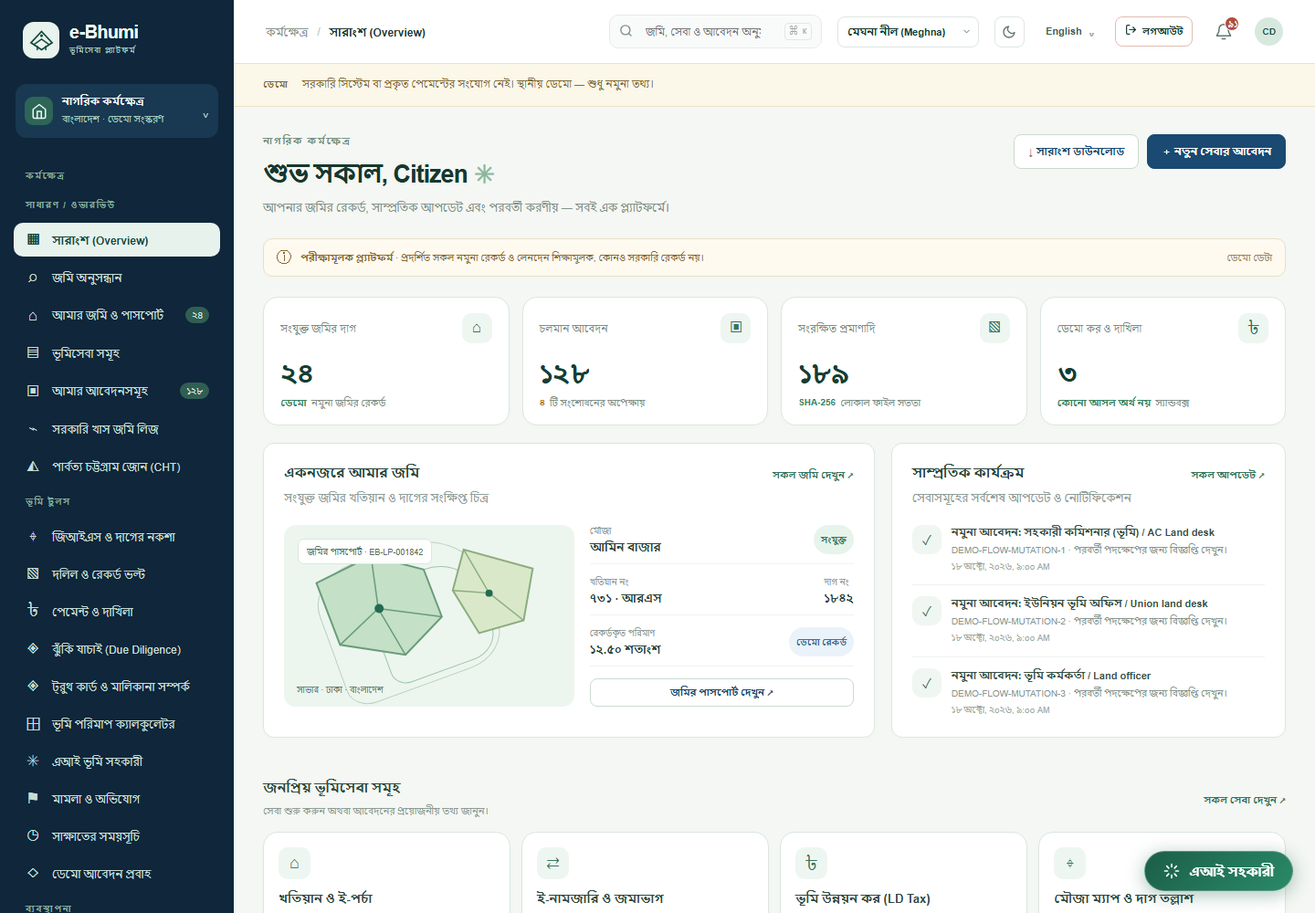
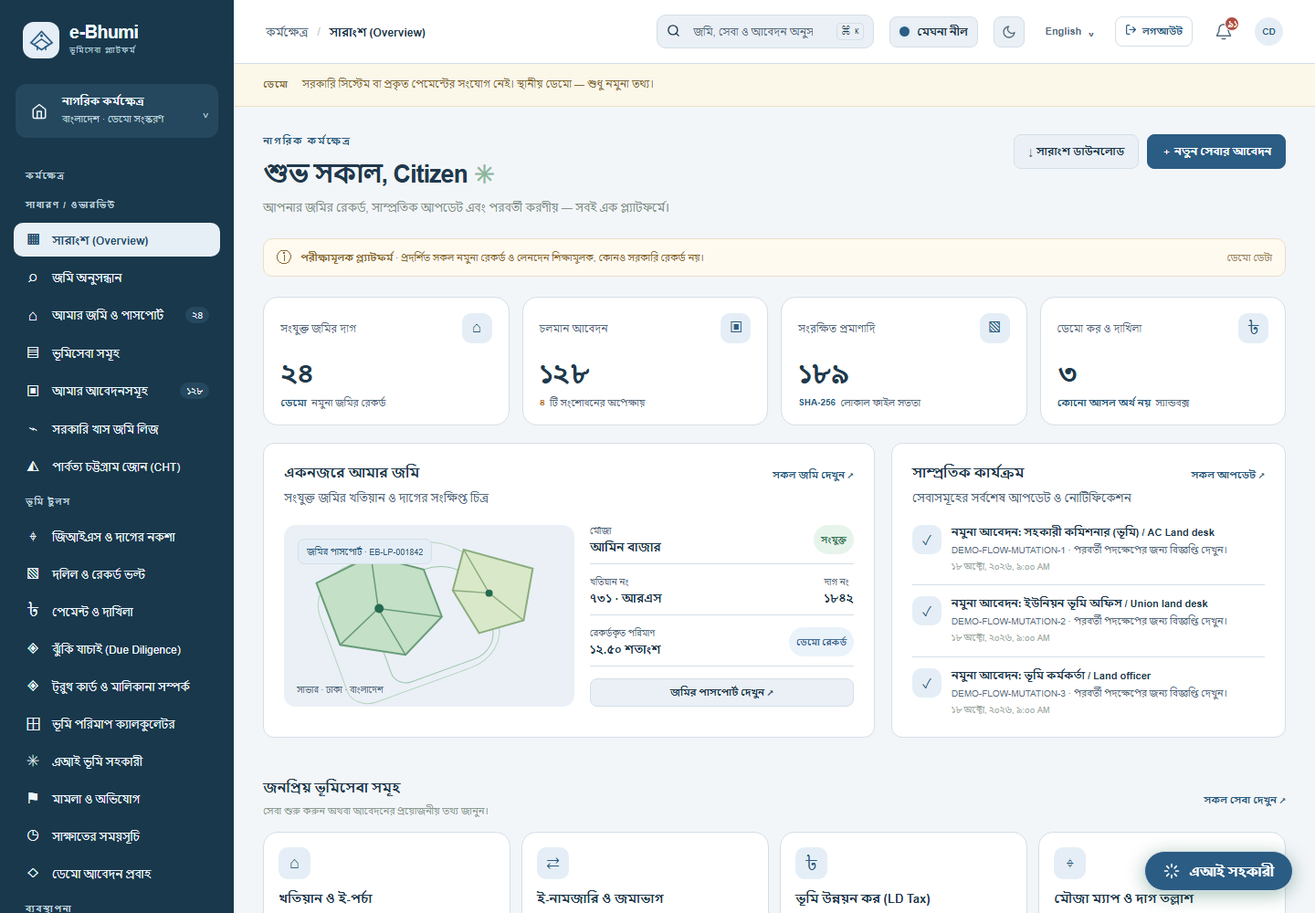
Add visual appearance collection with coordinated alternate day and night palettes

diff --git a/ebhumi-platform/themes.css b/ebhumi-platform/themes.css
@@ -1,4 +1,289 @@
-/* Demo workflow layout only. Original colours remain in interface.css and the preserved stylesheets. */
+/* Coordinated alternate palettes. The original Padma green/white and its night mode are untouched. */
+:root[data-color-variant="meghna"]{
+  --theme-canvas:#f3f6f9;
+  --theme-surface:#ffffff;
+  --theme-soft:#eaf0f6;
+  --theme-ink:#20394d;
+  --theme-muted:#556c7e;
+  --theme-line:#d4dfe8;
+  --theme-accent:#2b5c83;
+  --theme-hover:#214b6d;
+  --theme-tint:#e5eef6;
+  --theme-side:#19384c;
+  --theme-sideSoft:#25485e;
+  --theme-sideInk:#eef5fa;
+  --theme-sideMuted:#bdcedb;
+  --theme-active:#e7eff6;
+  --theme-activeInk:#234e70;
+  --theme-primary:#2b5c83;--theme-primary-hover:#214b6d;
+}
+:root[data-color-variant="meghna"][data-theme="dark"]{
+  --theme-canvas:#101923;
+  --theme-surface:#182632;
+  --theme-soft:#20323f;
+  --theme-ink:#e5eef5;
+  --theme-muted:#b3c2ce;
+  --theme-line:#364c5d;
+  --theme-accent:#a4c9ed;
+  --theme-hover:#c0ddf7;
+  --theme-tint:#263e53;
+  --theme-side:#101f2d;
+  --theme-sideSoft:#20374a;
+  --theme-sideInk:#e5eef5;
+  --theme-sideMuted:#b3c2ce;
+  --theme-active:#2a465d;
+  --theme-activeInk:#dceeff;
+  --theme-primary:#335f88;
+  --theme-primaryHover:#3d709d;
+  --theme-primary:#335f88;--theme-primary-hover:#3d709d;
+}
+:root[data-color-variant="sundarban"]{
+  --theme-canvas:#f8f6f2;
+  --theme-surface:#fffefd;
+  --theme-soft:#f1ebe3;
+  --theme-ink:#493d32;
+  --theme-muted:#756251;
+  --theme-line:#e2d8ca;
+  --theme-accent:#815737;
+  --theme-hover:#654229;
+  --theme-tint:#f2e8db;
+  --theme-side:#49392b;
+  --theme-sideSoft:#5b4837;
+  --theme-sideInk:#fcf5eb;
+  --theme-sideMuted:#dfceba;
+  --theme-active:#f3e8d9;
+  --theme-activeInk:#604027;
+  --theme-primary:#815737;--theme-primary-hover:#654229;
+}
+:root[data-color-variant="sundarban"][data-theme="dark"]{
+  --theme-canvas:#211b17;
+  --theme-surface:#2d251f;
+  --theme-soft:#382f27;
+  --theme-ink:#f3e9de;
+  --theme-muted:#d0bca9;
+  --theme-line:#584a3b;
+  --theme-accent:#e7b48b;
+  --theme-hover:#f2cfaf;
+  --theme-tint:#48372b;
+  --theme-side:#251e18;
+  --theme-sideSoft:#3d3026;
+  --theme-sideInk:#f3e9de;
+  --theme-sideMuted:#d0bca9;
+  --theme-active:#4b392b;
+  --theme-activeInk:#f8dfc7;
+  --theme-primary:#865337;
+  --theme-primaryHover:#996344;
+  --theme-primary:#865337;--theme-primary-hover:#996344;
+}
+:root[data-color-variant="surma"]{
+  --theme-canvas:#f4f6f8;
+  --theme-surface:#ffffff;
+  --theme-soft:#eaf0f5;
+  --theme-ink:#2c3d51;
+  --theme-muted:#5b6c80;
+  --theme-line:#d4dde6;
+  --theme-accent:#4a607e;
+  --theme-hover:#354b68;
+  --theme-tint:#e8edf4;
+  --theme-side:#2b394b;
+  --theme-sideSoft:#3b4c62;
+  --theme-sideInk:#f0f4fa;
+  --theme-sideMuted:#c4cfdf;
+  --theme-active:#e8edf5;
+  --theme-activeInk:#354c69;
+  --theme-primary:#4a607e;--theme-primary-hover:#354b68;
+}
+:root[data-color-variant="surma"][data-theme="dark"]{
+  --theme-canvas:#171d26;
+  --theme-surface:#222b37;
+  --theme-soft:#2c3746;
+  --theme-ink:#e7edf5;
+  --theme-muted:#bdc8d7;
+  --theme-line:#445267;
+  --theme-accent:#b6cbe8;
+  --theme-hover:#d5e4f7;
+  --theme-tint:#334258;
+  --theme-side:#1b2431;
+  --theme-sideSoft:#2c394c;
+  --theme-sideInk:#e7edf5;
+  --theme-sideMuted:#bdc8d7;
+  --theme-active:#35465e;
+  --theme-activeInk:#e4edff;
+  --theme-primary:#4a607f;
+  --theme-primaryHover:#586f91;
+  --theme-primary:#4a607f;--theme-primary-hover:#586f91;
+}
+:root[data-color-variant]:not([data-color-variant="padma"]){--canvas:var(--theme-canvas);--paper:var(--theme-surface);--white:var(--theme-surface);--ink:var(--theme-ink);--muted:var(--theme-muted);--line:var(--theme-line);--green:var(--theme-accent);--green-2:var(--theme-hover);--mint:var(--theme-tint);--color-brand-primary:var(--theme-primary);--color-brand-hover:var(--theme-primary-hover);--color-brand-subtle:var(--theme-tint);--color-brand-border:var(--theme-line);background:var(--theme-canvas);color:var(--theme-ink)}
+:root[data-color-variant]:not([data-color-variant="padma"]) body,
+:root[data-color-variant]:not([data-color-variant="padma"]) .main,
+:root[data-color-variant]:not([data-color-variant="padma"]) .main-area{background:var(--theme-canvas);color:var(--theme-ink)}
+:root[data-color-variant]:not([data-color-variant="padma"]) .sidebar{background:var(--theme-side)!important;color:var(--theme-sideInk);border-color:var(--theme-line)}
+:root[data-color-variant]:not([data-color-variant="padma"]) .sidebar .workspace-switch,
+:root[data-color-variant]:not([data-color-variant="padma"]) .role-panel{background:var(--theme-sideSoft)!important;border-color:var(--theme-sideSoft);color:var(--theme-sideInk)}
+:root[data-color-variant]:not([data-color-variant="padma"]) .sidebar .help-card,
+:root[data-color-variant]:not([data-color-variant="padma"]) .sidebar .workspace-icon,
+:root[data-color-variant]:not([data-color-variant="padma"]) .sidebar .profile-mini .avatar{background:var(--theme-sideSoft);border-color:var(--theme-sideMuted);color:var(--theme-sideInk)}
+:root[data-color-variant]:not([data-color-variant="padma"]) .sidebar .brand,
+:root[data-color-variant]:not([data-color-variant="padma"]) .sidebar .brand strong,
+:root[data-color-variant]:not([data-color-variant="padma"]) .sidebar .profile-text b,
+:root[data-color-variant]:not([data-color-variant="padma"]) .sidebar .nav-item,
+:root[data-color-variant]:not([data-color-variant="padma"]) .sidebar .help-card b{color:var(--theme-sideInk)}
+:root[data-color-variant]:not([data-color-variant="padma"]) .sidebar small,
+:root[data-color-variant]:not([data-color-variant="padma"]) .sidebar .side-label,
+:root[data-color-variant]:not([data-color-variant="padma"]) .sidebar .text-button,
+:root[data-color-variant]:not([data-color-variant="padma"]) .sidebar .chevron,
+:root[data-color-variant]:not([data-color-variant="padma"]) .sidebar .profile-mini .icon-button{color:var(--theme-sideMuted)}
+:root[data-color-variant]:not([data-color-variant="padma"]) .sidebar .nav-item:hover{background:var(--theme-sideSoft);color:var(--theme-sideInk)}
+:root[data-color-variant]:not([data-color-variant="padma"]) .sidebar .nav-item.active{background:var(--theme-active);color:var(--theme-activeInk)}
+:root[data-color-variant]:not([data-color-variant="padma"]) .sidebar .nav-count{background:var(--theme-sideSoft);color:var(--theme-sideInk)}
+:root[data-color-variant]:not([data-color-variant="padma"]) .sidebar .nav-item.active .nav-count{background:var(--theme-active);color:var(--theme-activeInk)}
+:root[data-color-variant]:not([data-color-variant="padma"]) .sidebar .sidebar-bottom,
+:root[data-color-variant]:not([data-color-variant="padma"]) .sidebar .profile-mini{border-color:var(--theme-sideSoft)}
+:root[data-color-variant]:not([data-color-variant="padma"]) .topbar,
+:root[data-color-variant]:not([data-color-variant="padma"]) .panel,
+:root[data-color-variant]:not([data-color-variant="padma"]) .card,
+:root[data-color-variant]:not([data-color-variant="padma"]) .stat-card,
+:root[data-color-variant]:not([data-color-variant="padma"]) .feature-card,
+:root[data-color-variant]:not([data-color-variant="padma"]) .service-card,
+:root[data-color-variant]:not([data-color-variant="padma"]) .catalog-stat,
+:root[data-color-variant]:not([data-color-variant="padma"]) .mini-metric,
+:root[data-color-variant]:not([data-color-variant="padma"]) .catalog-item,
+:root[data-color-variant]:not([data-color-variant="padma"]) dialog,
+:root[data-color-variant]:not([data-color-variant="padma"]) .ai-floating-card{background:var(--theme-surface);color:var(--theme-ink);border-color:var(--theme-line)}
+:root[data-color-variant]:not([data-color-variant="padma"]) h1,
+:root[data-color-variant]:not([data-color-variant="padma"]) h2,
+:root[data-color-variant]:not([data-color-variant="padma"]) h3,
+:root[data-color-variant]:not([data-color-variant="padma"]) strong,
+:root[data-color-variant]:not([data-color-variant="padma"]) .panel-title,
+:root[data-color-variant]:not([data-color-variant="padma"]) .stat-value,
+:root[data-color-variant]:not([data-color-variant="padma"]) .detail-value,
+:root[data-color-variant]:not([data-color-variant="padma"]) .activity-copy b,
+:root[data-color-variant]:not([data-color-variant="padma"]) .service-card b,
+:root[data-color-variant]:not([data-color-variant="padma"]) .breadcrumb b{color:var(--theme-ink)}
+:root[data-color-variant]:not([data-color-variant="padma"]) .muted,
+:root[data-color-variant]:not([data-color-variant="padma"]) .help,
+:root[data-color-variant]:not([data-color-variant="padma"]) .panel-subtitle,
+:root[data-color-variant]:not([data-color-variant="padma"]) .stat-label,
+:root[data-color-variant]:not([data-color-variant="padma"]) .stat-foot,
+:root[data-color-variant]:not([data-color-variant="padma"]) .metric span,
+:root[data-color-variant]:not([data-color-variant="padma"]) .card p,
+:root[data-color-variant]:not([data-color-variant="padma"]) .panel p,
+:root[data-color-variant]:not([data-color-variant="padma"]) .service-card small,
+:root[data-color-variant]:not([data-color-variant="padma"]) .detail-label,
+:root[data-color-variant]:not([data-color-variant="padma"]) .activity-copy p,
+:root[data-color-variant]:not([data-color-variant="padma"]) .land-art-bottom,
+:root[data-color-variant]:not([data-color-variant="padma"]) .breadcrumb{color:var(--theme-muted)}
+:root[data-color-variant]:not([data-color-variant="padma"]) .btn{background:var(--theme-soft);color:var(--theme-ink);border-color:var(--theme-line)}
+:root[data-color-variant]:not([data-color-variant="padma"]) .btn:hover{background:var(--theme-tint);color:var(--theme-ink)}
+:root[data-color-variant]:not([data-color-variant="padma"]) .btn.primary,
+:root[data-color-variant]:not([data-color-variant="padma"]) .progress-steps button.active{background:var(--theme-primary)!important;border-color:var(--theme-primary)!important;color:#fff}
+:root[data-color-variant]:not([data-color-variant="padma"]) .btn.primary:hover{background:var(--theme-primary-hover)!important}
+:root[data-color-variant]:not([data-color-variant="padma"]) .btn.ghost{background:transparent;color:var(--theme-accent)}
+:root[data-color-variant]:not([data-color-variant="padma"]) input,
+:root[data-color-variant]:not([data-color-variant="padma"]) select,
+:root[data-color-variant]:not([data-color-variant="padma"]) textarea,
+:root[data-color-variant]:not([data-color-variant="padma"]) .global-search,
+:root[data-color-variant]:not([data-color-variant="padma"]) .global-search input,
+:root[data-color-variant]:not([data-color-variant="padma"]) .global-search kbd,
+:root[data-color-variant]:not([data-color-variant="padma"]) .theme-toggle,
+:root[data-color-variant]:not([data-color-variant="padma"]) .color-variant-select,
+:root[data-color-variant]:not([data-color-variant="padma"]) .appearance-trigger{background-color:var(--theme-soft);color:var(--theme-ink);border-color:var(--theme-line)}
+:root[data-color-variant]:not([data-color-variant="padma"]) input::placeholder,
+:root[data-color-variant]:not([data-color-variant="padma"]) textarea::placeholder{color:var(--theme-muted);opacity:1}
+:root[data-color-variant]:not([data-color-variant="padma"]) .icon-button,
+:root[data-color-variant]:not([data-color-variant="padma"]) .language-toggle,
+:root[data-color-variant]:not([data-color-variant="padma"]) .language-toggle span{color:var(--theme-muted)}
+:root[data-color-variant]:not([data-color-variant="padma"]) .icon-button:hover,
+:root[data-color-variant]:not([data-color-variant="padma"]) .theme-toggle:hover{background:var(--theme-tint);color:var(--theme-accent)}
+:root[data-color-variant]:not([data-color-variant="padma"]) .stat-icon,
+:root[data-color-variant]:not([data-color-variant="padma"]) .service-icon,
+:root[data-color-variant]:not([data-color-variant="padma"]) .activity-icon,
+:root[data-color-variant]:not([data-color-variant="padma"]) .land-art-label,
+:root[data-color-variant]:not([data-color-variant="padma"]) .top-avatar,
+:root[data-color-variant]:not([data-color-variant="padma"]) .brand-mark{background:var(--theme-tint);color:var(--theme-accent);border-color:var(--theme-line)}
+:root[data-color-variant]:not([data-color-variant="padma"]) .positive,
+:root[data-color-variant]:not([data-color-variant="padma"]) .inline-link,
+:root[data-color-variant]:not([data-color-variant="padma"]) .source-link,
+:root[data-color-variant]:not([data-color-variant="padma"]) .table-primary,
+:root[data-color-variant]:not([data-color-variant="padma"]) .eyebrow,
+:root[data-color-variant]:not([data-color-variant="padma"]) .demo-example-links a,
+:root[data-color-variant]:not([data-color-variant="padma"]) .main .text-button{color:var(--theme-accent)!important}
+:root[data-color-variant]:not([data-color-variant="padma"]) .table-wrap,
+:root[data-color-variant]:not([data-color-variant="padma"]) table,
+:root[data-color-variant]:not([data-color-variant="padma"]) .data-table{background:var(--theme-surface);color:var(--theme-ink);border-color:var(--theme-line)}
+:root[data-color-variant]:not([data-color-variant="padma"]) td,
+:root[data-color-variant]:not([data-color-variant="padma"]) .data-table td{color:var(--theme-ink);border-color:var(--theme-line)}
+:root[data-color-variant]:not([data-color-variant="padma"]) th,
+:root[data-color-variant]:not([data-color-variant="padma"]) .data-table th,
+:root[data-color-variant]:not([data-color-variant="padma"]) pre,
+:root[data-color-variant]:not([data-color-variant="padma"]) .result,
+:root[data-color-variant]:not([data-color-variant="padma"]) .evidence,
+:root[data-color-variant]:not([data-color-variant="padma"]) .outcome,
+:root[data-color-variant]:not([data-color-variant="padma"]) .progress-steps button,
+:root[data-color-variant]:not([data-color-variant="padma"]) .land-art,
+:root[data-color-variant]:not([data-color-variant="padma"]) .app-footer,
+:root[data-color-variant]:not([data-color-variant="padma"]) .chat-bubble{background:var(--theme-soft);color:var(--theme-ink);border-color:var(--theme-line)}
+:root[data-color-variant]:not([data-color-variant="padma"]) .progress-steps button.done,
+:root[data-color-variant]:not([data-color-variant="padma"]) .badge:not(.red):not(.amber):not(.blue),
+:root[data-color-variant]:not([data-color-variant="padma"]) .pill.gray{background:var(--theme-tint);color:var(--theme-accent);border-color:var(--theme-line)}
+:root[data-color-variant]:not([data-color-variant="padma"]) .progress,
+:root[data-color-variant]:not([data-color-variant="padma"]) .bar{background:var(--theme-soft)}
+:root[data-color-variant]:not([data-color-variant="padma"]) .progress span,
+:root[data-color-variant]:not([data-color-variant="padma"]) .bar>span,
+:root[data-color-variant]:not([data-color-variant="padma"]) .timeline article:before{background:var(--theme-primary)}
+:root[data-color-variant]:not([data-color-variant="padma"]) .timeline,
+:root[data-color-variant]:not([data-color-variant="padma"]) .tabs,
+:root[data-color-variant]:not([data-color-variant="padma"]) .detail-row,
+:root[data-color-variant]:not([data-color-variant="padma"]) .activity-item,
+:root[data-color-variant]:not([data-color-variant="padma"]) details{border-color:var(--theme-line)}
+:root[data-color-variant]:not([data-color-variant="padma"]) .tabs button{color:var(--theme-muted)}
+:root[data-color-variant]:not([data-color-variant="padma"]) .tabs button.active{color:var(--theme-accent);border-color:var(--theme-accent)}
+:root[data-color-variant]:not([data-color-variant="padma"]) .chat-bubble.user,
+:root[data-color-variant]:not([data-color-variant="padma"]) .ai-bubble-user,
+:root[data-color-variant]:not([data-color-variant="padma"]) .ai-floating-btn,
+:root[data-color-variant]:not([data-color-variant="padma"]) .ai-card-head,
+:root[data-color-variant]:not([data-color-variant="padma"]) .toast{background:var(--theme-primary);color:#fff;border-color:var(--theme-line)}
+:root[data-color-variant]:not([data-color-variant="padma"]) .ai-floating-btn:hover{background:var(--theme-primary-hover);color:#fff}
+:root[data-color-variant]:not([data-color-variant="padma"]) .ai-card-body,
+:root[data-color-variant]:not([data-color-variant="padma"]) .ai-card-input,
+:root[data-color-variant]:not([data-color-variant="padma"]) .ai-card-foot{background:var(--theme-soft);color:var(--theme-ink);border-color:var(--theme-line)}
+:root[data-color-variant]:not([data-color-variant="padma"]) .ai-bubble-assistant,
+:root[data-color-variant]:not([data-color-variant="padma"]) .ai-chip{background:var(--theme-surface);color:var(--theme-ink);border-color:var(--theme-line)}
+:root[data-color-variant]:not([data-color-variant="padma"]) .ai-card-input input{background:var(--theme-surface);color:var(--theme-ink);border-color:var(--theme-line)}
+:root[data-color-variant]:not([data-color-variant="padma"]) .ai-card-foot a{color:var(--theme-accent)}
+:root[data-color-variant]:not([data-color-variant="padma"]) :focus-visible{outline-color:var(--theme-accent)}
+:root[data-color-variant]:not([data-color-variant="padma"]) .btn.danger{background:#fff6f4;border-color:#e4bdb3;color:#a3382c}
+:root[data-color-variant]:not([data-color-variant="padma"])[data-theme="dark"]{color-scheme:dark}
+:root[data-color-variant]:not([data-color-variant="padma"])[data-theme="dark"] .btn.danger,:root[data-color-variant]:not([data-color-variant="padma"])[data-theme="dark"] .top-logout{background:#3d2426;border-color:#825452;color:#ffbdb5}
+:root[data-color-variant]:not([data-color-variant="padma"])[data-theme="dark"] .error{color:#ffbdb5}
+:root[data-color-variant]:not([data-color-variant="padma"])[data-theme="dark"] .sandbox,:root[data-color-variant]:not([data-color-variant="padma"])[data-theme="dark"] .notice,:root[data-color-variant]:not([data-color-variant="padma"])[data-theme="dark"] .demo-banner{background:#322c21;border-color:#66543a;color:#f1d49a}
+:root[data-color-variant]:not([data-color-variant="padma"])[data-theme="dark"] .demo-banner span:last-child{color:#e8cb94}
+:root[data-color-variant]:not([data-color-variant="padma"])[data-theme="dark"] .stat-foot .warning{color:#f1d49a}
+:root[data-color-variant]:not([data-color-variant="padma"])[data-theme="dark"] .activity-copy p[style*="color"]{color:var(--theme-muted)!important}
+:root[data-color-variant]:not([data-color-variant="padma"])[data-theme="dark"] .leaflet-popup-content-wrapper,:root[data-color-variant]:not([data-color-variant="padma"])[data-theme="dark"] .leaflet-popup-tip{background:var(--theme-surface);color:var(--theme-ink)}
+:root[data-color-variant]:not([data-color-variant="padma"])[data-theme="dark"] #hillTerrainPanel .panel[style],:root[data-color-variant]:not([data-color-variant="padma"])[data-theme="dark"] #hillTerrainPanel [style*="background"]{background:var(--theme-soft)!important;border-color:var(--theme-line)!important}
+:root[data-color-variant]:not([data-color-variant="padma"])[data-theme="dark"] #hillTerrainPanel [style*="color"]{color:var(--theme-ink)!important}
+
+/* Visual colour picker. Native radio inputs retain keyboard and screen-reader support. */
+.appearance-trigger{height:34px;display:inline-flex;align-items:center;gap:8px;max-width:155px;white-space:nowrap;padding:0 10px;border:1px solid var(--line,#dce7e1);border-radius:8px;background:#fff;color:var(--ink,#173d33);font-size:11px;font-weight:600;cursor:pointer}
+.appearance-trigger>span:last-child{overflow:hidden;text-overflow:ellipsis}
+.appearance-dot{width:11px;height:11px;flex:none;border-radius:50%;background:var(--theme-primary,#1b5e48);box-shadow:0 0 0 3px var(--theme-tint,#eaf4ef)}
+[data-theme="dark"][data-color-variant="padma"] .appearance-trigger{background:#152e25;border-color:#22443a;color:#e3ede6}
+.appearance-dialog{width:min(620px,calc(100vw - 28px));padding:26px;border-radius:18px;box-shadow:0 24px 80px #0004}
+.appearance-dialog::backdrop{background:#101a24a3;backdrop-filter:blur(5px)}
+.appearance-dialog .dialog-head{align-items:flex-start}.appearance-dialog h2{margin:3px 0 0;font-size:23px;line-height:1.45}.appearance-dialog .eyebrow{margin:0;font-size:9px}
+.appearance-dialog .appearance-intro{font-size:13px;margin:12px 0 20px;color:var(--muted);line-height:1.8}.appearance-close{font-size:23px;line-height:1;width:34px;height:34px;flex:none}
+.appearance-dialog fieldset{min-width:0;border:0;padding:0;margin:0 0 20px}.appearance-dialog legend{font-size:12px;font-weight:700;margin-bottom:10px}
+.appearance-modes{display:grid;grid-template-columns:1fr 1fr;gap:8px}.appearance-modes label{display:flex;flex-direction:row;align-items:center;justify-content:center;gap:8px;border:1px solid var(--line);padding:11px;border-radius:9px;cursor:pointer;font-size:12px}.appearance-modes input{width:15px;height:15px;margin:0;accent-color:var(--theme-primary,var(--green))}.appearance-modes label:has(:checked){background:var(--theme-tint,var(--mint));border-color:var(--theme-accent,var(--green))}
+.appearance-palettes{display:grid;grid-template-columns:1fr 1fr;gap:12px}.appearance-choice{position:relative;display:block;border:1px solid var(--line);border-radius:12px;padding:10px;cursor:pointer;min-width:0}.appearance-choice>input{position:absolute;top:14px;right:14px;width:17px;height:17px;margin:0;accent-color:var(--theme-primary,var(--green));z-index:1}.appearance-choice:has(:checked){border-color:var(--theme-accent,var(--green));box-shadow:0 0 0 1px var(--theme-accent,var(--green))}.appearance-choice:has(:focus-visible){outline:3px solid var(--theme-accent,var(--green));outline-offset:3px}.appearance-choice-title{display:block;margin-top:10px;font-size:13px;font-weight:700}.appearance-choice-note{display:block;font-size:10px;margin-top:3px;color:var(--muted);line-height:1.8}.appearance-check{position:absolute;right:13px;bottom:24px;color:var(--theme-accent,var(--green));display:none}.appearance-choice:has(:checked) .appearance-check{display:block}
+.appearance-mini{display:block;position:relative;height:92px;overflow:hidden;border-radius:7px;background:var(--preview-canvas);border:1px solid #71809330}.appearance-mini i{display:block;position:absolute}.mini-side{inset:0 auto 0 0;width:24%;background:var(--preview-side)}.mini-top{top:0;left:24%;right:0;height:18px;background:var(--preview-card);border-bottom:1px solid #71809322}.mini-card{top:29px;left:31%;width:26%;height:24px;border-radius:4px;background:var(--preview-card);border:1px solid #71809322}.mini-card.second{left:63%}.mini-action{left:31%;bottom:14px;width:33%;height:10px;border-radius:3px;background:var(--preview-accent)}
+[data-palette="padma"]{--preview-canvas:#f4f7f3;--preview-side:#123d35;--preview-card:#fff;--preview-accent:#1b5e48}[data-palette="meghna"]{--preview-canvas:#f3f6f9;--preview-side:#19384c;--preview-card:#fff;--preview-accent:#2b5c83}[data-palette="sundarban"]{--preview-canvas:#f8f6f2;--preview-side:#49392b;--preview-card:#fffefd;--preview-accent:#815737}[data-palette="surma"]{--preview-canvas:#f4f6f8;--preview-side:#2b394b;--preview-card:#fff;--preview-accent:#4a607e}
+[data-mode="dark"] [data-palette="padma"]{--preview-canvas:#0c1c17;--preview-side:#0b1a15;--preview-card:#132720;--preview-accent:#2b8465}[data-mode="dark"] [data-palette="meghna"]{--preview-canvas:#101923;--preview-side:#101f2d;--preview-card:#182632;--preview-accent:#335f88}[data-mode="dark"] [data-palette="sundarban"]{--preview-canvas:#211b17;--preview-side:#251e18;--preview-card:#2d251f;--preview-accent:#865337}[data-mode="dark"] [data-palette="surma"]{--preview-canvas:#171d26;--preview-side:#1b2431;--preview-card:#222b37;--preview-accent:#4a607f}
+.appearance-dialog .appearance-saved{margin:0;font-size:11px;color:var(--muted);line-height:1.8}
+@media(max-width:600px){.appearance-trigger{max-width:98px;padding:0 7px;gap:6px;font-size:10px}.appearance-dot{width:8px;height:8px}.appearance-dialog{padding:18px}.appearance-dialog h2{font-size:21px}.appearance-palettes{gap:10px}.appearance-choice-note{max-width:120px}.appearance-choice-title{font-size:12px}.appearance-check{right:10px;bottom:12px}.appearance-mini{height:80px}}
+@media print{.appearance-dialog,.appearance-trigger{display:none!important}}
+
+/* Preserved demo workflow layout. */
 .demo-summary{margin-top:24px}.demo-example-links{display:flex;flex-wrap:wrap;gap:10px;margin-top:15px}.demo-example-links a{display:inline-block;padding:8px 11px;border:1px solid var(--line);border-radius:7px;overflow-wrap:anywhere}.demo-flow-filter{display:block;margin:20px 0;max-width:560px}.demo-route{padding-left:26px;line-height:1.9}.demo-flow-card{margin-bottom:20px}.demo-route li{padding:5px 0}.demo-flow-card[hidden]{display:none}
 @media(max-width:600px){.demo-example-links{flex-direction:column}.demo-route{padding-left:20px}.demo-flow-card{overflow-wrap:anywhere}}
 @media(prefers-reduced-motion:reduce){:root .app-shell *,dialog{transition:none!important;animation:none!important}}

diff --git a/ebhumi-platform/appearance.js b/ebhumi-platform/appearance.js
@@ -1,0 +1,34 @@
+'use strict';
+/* Local appearance preferences only; no account or workflow data is changed. */
+const APPEARANCE_PALETTES=[
+ {id:'padma',bn:'পদ্মা সবুজ',en:'Padma Green',bnNote:'চিরচেনা সবুজ ও সাদা',enNote:'The original green and white'},
+ {id:'meghna',bn:'মেঘনা নীল',en:'Meghna Blue',bnNote:'নদীর নীল, শান্ত আবহ',enNote:'Quiet river-blue tones'},
+ {id:'sundarban',bn:'মৃত্তিকা',en:'Earth Clay',bnNote:'মাটির উষ্ণ, কোমল আভা',enNote:'Warm, understated earth tones'},
+ {id:'surma',bn:'সুরমা স্লেট',en:'Surma Slate',bnNote:'ধূসর-নীলের পরিমিত ছোঁয়া',enNote:'A restrained blue-grey balance'}
+];
+function initAppearance(){
+ if(document.getElementById('appearanceDialog'))return;
+ const select=document.getElementById('colorVariantSelect');if(!select)return;
+ const trigger=document.createElement('button');trigger.id='appearanceOpen';trigger.type='button';trigger.className='appearance-trigger';trigger.setAttribute('aria-haspopup','dialog');trigger.setAttribute('aria-controls','appearanceDialog');
+ select.before(trigger);select.hidden=true;
+ const dialog=document.createElement('dialog');dialog.id='appearanceDialog';dialog.className='appearance-dialog';dialog.setAttribute('aria-labelledby','appearanceTitle');
+ dialog.innerHTML='<div class="dialog-head"><div><span class="eyebrow" data-appearance-copy="eyebrow"></span><h2 id="appearanceTitle" data-appearance-copy="title"></h2></div><button type="button" class="appearance-close icon-button">×</button></div><p class="appearance-intro" data-appearance-copy="intro"></p><fieldset class="appearance-modes"><legend data-appearance-copy="mode"></legend><label><input type="radio" name="appearanceMode" value="light"><span data-appearance-copy="light"></span></label><label><input type="radio" name="appearanceMode" value="dark"><span data-appearance-copy="dark"></span></label></fieldset><fieldset class="appearance-palettes"><legend data-appearance-copy="palette"></legend>'+APPEARANCE_PALETTES.map(p=>'<label class="appearance-choice" data-palette="'+p.id+'"><input type="radio" name="appearancePalette" value="'+p.id+'"><span class="appearance-mini" aria-hidden="true"><i class="mini-side"></i><i class="mini-top"></i><i class="mini-card"></i><i class="mini-card second"></i><i class="mini-action"></i></span><span class="appearance-choice-title"></span><small class="appearance-choice-note"></small><span class="appearance-check" aria-hidden="true">✓</span></label>').join('')+'</fieldset><p class="appearance-saved" data-appearance-copy="saved"></p>';
+ document.body.append(dialog);
+ trigger.addEventListener('click',()=>{syncAppearance();dialog.showModal();dialog.querySelector('input[name="appearanceMode"]:checked')?.focus();});
+ dialog.querySelector('.appearance-close').addEventListener('click',()=>dialog.close());
+ dialog.addEventListener('click',e=>{if(e.target===dialog){const r=dialog.getBoundingClientRect();if(e.clientX<r.left||e.clientX>r.right||e.clientY<r.top||e.clientY>r.bottom)dialog.close();}});
+ dialog.addEventListener('change',e=>{if(e.target.name==='appearancePalette')setColorVariant(e.target.value);if(e.target.name==='appearanceMode'){localStorage.setItem('ebhumi_theme',e.target.value);applyTheme(e.target.value);}});
+ dialog.addEventListener('close',()=>trigger.focus());
+ window.addEventListener('storage',e=>{if(e.key==='ebhumi_color_variant')applyColorVariant(e.newValue||'padma');if(e.key==='ebhumi_theme')applyTheme(e.newValue==='dark'?'dark':'light');});
+ let previousLanguage=document.documentElement.lang;new MutationObserver(()=>{const current=document.documentElement.lang;if(current!==previousLanguage){previousLanguage=current;syncAppearance();}}).observe(document.documentElement,{attributes:true,attributeFilter:['lang']});
+ syncAppearance();
+}
+function syncAppearance(){
+ const dialog=document.getElementById('appearanceDialog'),trigger=document.getElementById('appearanceOpen');if(!dialog||!trigger)return;
+ const bn=document.documentElement.lang!=='en',variant=document.documentElement.dataset.colorVariant||'padma',mode=document.documentElement.dataset.theme==='dark'?'dark':'light',selected=APPEARANCE_PALETTES.find(p=>p.id===variant)||APPEARANCE_PALETTES[0];
+ const copy=bn?{eyebrow:'নিজের মতো করে',title:'আপনার পছন্দের আবহ',intro:'রঙের নমুনা দেখে বেছে নিন। আপনার কাজ ও তথ্য একই থাকবে।',mode:'আলোর ধরন',light:'দিনের আলো',dark:'রাতের আবহ',palette:'রঙের সংগ্রহ',saved:'আপনার পছন্দ এই ব্রাউজারে সংরক্ষিত থাকবে।',close:'বন্ধ করুন',open:'রঙ ও আলোর ধরন বাছুন'}:{eyebrow:'MAKE IT YOURS',title:'A workspace in your colours',intro:'Choose a palette from the previews. Your work and information stay the same.',mode:'Display mode',light:'Daylight',dark:'Nightfall',palette:'Colour collection',saved:'Your preference stays saved in this browser.',close:'Close',open:'Choose colours and display mode'};
+ trigger.replaceChildren();const dot=document.createElement('span');dot.className='appearance-dot';dot.setAttribute('aria-hidden','true');const label=document.createElement('span');label.textContent=selected[bn?'bn':'en'];trigger.append(dot,label);trigger.title=copy.open;trigger.setAttribute('aria-label',copy.open+': '+label.textContent);
+ dialog.dataset.mode=mode;for(const el of dialog.querySelectorAll('[data-appearance-copy]'))el.textContent=copy[el.dataset.appearanceCopy];dialog.querySelector('.appearance-close').setAttribute('aria-label',copy.close);
+ for(const input of dialog.querySelectorAll('input[name="appearanceMode"]'))input.checked=input.value===mode;
+ for(const p of APPEARANCE_PALETTES){const card=dialog.querySelector('[data-palette="'+p.id+'"]');card.querySelector('input').checked=p.id===variant;card.querySelector('.appearance-choice-title').textContent=p[bn?'bn':'en'];card.querySelector('.appearance-choice-note').textContent=p[bn?'bnNote':'enNote'];}
+}

diff --git a/ebhumi-platform/portal.html b/ebhumi-platform/portal.html
@@ -1,4 +1,4 @@
-<!doctype html><html lang="bn"><head><script src="/i18n.js" defer></script><meta charset="utf-8"><meta name="viewport" content="width=device-width,initial-scale=1"><title>e-Bhumi | Land Services Workspace</title><link rel="icon" type="image/svg+xml" href="/assets/favicon.svg"><link rel="stylesheet" href="/assets/leaflet.css" crossorigin="" /><script src="/assets/leaflet.js" crossorigin="" defer></script><link rel="stylesheet" href="/assets/styles.css"><link rel="stylesheet" href="/portal.css"><link rel="stylesheet" href="/preserved.css"><script src="/citizen.js" defer></script><script src="/workflows.js" defer></script><link rel="stylesheet" href="/land-intelligence.css"><script src="/land-intelligence.js" defer></script><script src="/procedures-ui.js" defer></script><script src="/desk-ui.js" defer></script><script src="/lawbook.js" defer></script><script src="/assets/gsap.min.js" defer></script><script src="/terrain-engine.js" defer></script><script src="/hill-terrain.js" defer></script><script src="/demo-flows.js" defer></script><script src="/portal.js" defer></script><link rel="stylesheet" href="/interface.css"><link rel="stylesheet" href="/themes.css"></head><body><a class="skip" href="#content">Skip to content</a><div class="app-shell"><aside class="sidebar" id="sidebar">
+<!doctype html><html lang="bn"><head><script src="/i18n.js" defer></script><meta charset="utf-8"><meta name="viewport" content="width=device-width,initial-scale=1"><title>e-Bhumi | Land Services Workspace</title><link rel="icon" type="image/svg+xml" href="/assets/favicon.svg"><link rel="stylesheet" href="/assets/leaflet.css" crossorigin="" /><script src="/assets/leaflet.js" crossorigin="" defer></script><link rel="stylesheet" href="/assets/styles.css"><link rel="stylesheet" href="/portal.css"><link rel="stylesheet" href="/preserved.css"><script src="/citizen.js" defer></script><script src="/workflows.js" defer></script><link rel="stylesheet" href="/land-intelligence.css"><script src="/land-intelligence.js" defer></script><script src="/procedures-ui.js" defer></script><script src="/desk-ui.js" defer></script><script src="/lawbook.js" defer></script><script src="/assets/gsap.min.js" defer></script><script src="/terrain-engine.js" defer></script><script src="/hill-terrain.js" defer></script><script src="/demo-flows.js" defer></script><script src="/appearance.js" defer></script><script src="/portal.js" defer></script><link rel="stylesheet" href="/interface.css"><link rel="stylesheet" href="/themes.css"></head><body><a class="skip" href="#content">Skip to content</a><div class="app-shell"><aside class="sidebar" id="sidebar">
       <a class="brand" href="/index.html" aria-label="e-Bhumi home">
         <span class="brand-mark"><svg viewBox="0 0 40 40" aria-hidden="true"><path d="M5 23 20 7l15 16-15 10L5 23Z" fill="none" stroke="currentColor" stroke-width="2.2"/><path d="M10 25 20 18l10 7M14 28v5m12-5v5" fill="none" stroke="currentColor" stroke-width="2" stroke-linecap="round"/><circle cx="20" cy="13" r="2" fill="currentColor"/></svg></span>
         <span class="brand-copy"><strong>e-Bhumi</strong><small>LAND SERVICES PLATFORM</small></span>

diff --git a/ebhumi-platform/workspace.html b/ebhumi-platform/workspace.html
@@ -14,7 +14,7 @@
   <script src="/assets/leaflet.js" crossorigin="" defer></script>
   <link rel="stylesheet" href="assets/styles.css" />
   <link rel="stylesheet" href="/interface.css" />
-<link rel="stylesheet" href="/themes.css"></head>
+<link rel="stylesheet" href="/themes.css"><script src="/appearance.js" defer></script></head>
 <body>
   <a class="skip-link" href="#pageContent">Skip to content</a>
   <div class="app-shell">

diff --git a/docs/ROLE_DEMOS_AND_THEMES_v5.9.md b/docs/ROLE_DEMOS_AND_THEMES_v5.9.md
@@ -35,9 +35,15 @@ The [official tax manuals](https://ldtax.gov.bd/manual) and [published fee refer
 
 The one-time `roleDemoEdition` migration adds deterministic IDs without resetting existing applications, edited examples, accounts or uploaded documents. Example content is generated independently; it never copies a user's edited request or uploaded evidence. New citizen registrations remain empty and private. Demo cases respect ownership, current desk, prior handoff and oversight permissions. Old v1-only configurations retain the compact v1 seed rather than receiving v2 workflows.
 
-## Original colours restored
+## Appearance collection
 
-The owner requested the previous colours after reviewing the theme update. The original Padma, Meghna, Sundarban and Surma palettes, sidebar fills, component colours and day/night appearance are restored from the pre-update styles. The demo stylesheet now contains layout rules only. Original font stacks, composition, reduced-motion support and all role/workflow additions remain intact.
+The original Padma green/white colours and existing green night mode remain unchanged. The three alternative palettes have coordinated daylight and nightfall shades: Meghna Blue, Earth Clay and Surma Slate. Muted surfaces, readable text, matching sidebars and restrained primary buttons replace the previous mix of green controls and differently coloured sidebars. Warning, error and status colours remain semantic. Map artwork remains illustrative.
+
+The topbar palette button opens **আপনার পছন্দের আবহ / A workspace in your colours**. Four miniature workspace previews update with the selected display mode. Native radio controls support keyboard selection, Escape closes the dialog and restores focus, and the layout fits a mobile screen. Palette and display mode are saved locally and synchronized across tabs; an unset display preference respects the operating system. English/Bangla labels follow the platform language. Workflow, account and application data are unaffected.
+
+| Appearance collection | Mobile appearance |
+| --- | --- |
+| ![Night collection](screenshots-role-themes/citizen-appearance-night.png) | ![Mobile picker](screenshots-role-themes/appearance-mobile.png) |
 
 | Blue day | Blue night |
 | --- | --- |
@@ -49,7 +55,7 @@ The owner requested the previous colours after reviewing the theme update. The o
 
 - 139 automated test cases passed: prior lifecycle/security regressions plus all 33 new service examples resolved using actual APIs, consultations returned to LA, VP handoff, outcome hashes, owner isolation and idempotent restart.
 - All 24 roles passed the 33-service example-library and mobile checks.
-- The browser regression checks all 192 role/theme/mode combinations against the original alternate sidebar colours, selected palette/mode and preserved font stack. The previous contrast results applied to the replaced palette and are not claims about the restored colours.
+- The browser regression checks 192 role/theme/mode combinations, original green/white computed colours, coordinated alternate sidebars and selected normal-text contrast targets (4.5:1). These are targeted checks, not a complete accessibility certification. Appearance controls, persistence, bilingual labels, focus return and mobile dialog bounds are also checked.
 - Screenshot renders are in `docs/screenshots-role-themes/`. Browser automation relays actual local responses when loopback is isolated; no fake API results are substituted.
 
 ```powershell

diff --git a/README.md b/README.md
@@ -23,11 +23,13 @@ Primary interface defaults to Bangla, with seamless bilingual toggle to English.
 
 All 24 roles now include a **Demo workflows & examples** library: 104 application examples and four separate vested-property desk examples. Every service has active desk work and a completed outcome example. New mutation requests include the initial AC Land order before union enquiry; existing saved requests keep their history. [Role guide, workflow evidence and palette screenshots](docs/ROLE_DEMOS_AND_THEMES_v5.9.md).
 
-| Original blue day | Original blue night |
+| Meghna daylight | Meghna nightfall |
 | --- | --- |
 | ![Light theme](docs/screenshots-role-themes/meghna-light.png) | ![Night theme](docs/screenshots-role-themes/meghna-dark.png) |
 
-The original four colour palettes and their day/night appearance have been restored at the owner’s request. Demo workflows, role examples, fonts and layout remain intact. The workflow release passed 139 automated cases; palette screenshots below show the restored appearance.
+The original green-and-white palette is preserved. **Appearance** opens a bilingual collection of live palette previews: Padma Green, Meghna Blue, Earth Clay and Surma Slate, with separate daylight/nightfall choices and saved browser preferences. Alternate palettes coordinate the canvas, sidebar, cards, forms, tables and buttons; status colours retain their meaning. Demo workflows, role examples, fonts and layout remain intact.
+
+![Appearance collection in night mode](docs/screenshots-role-themes/citizen-appearance-night.png)
 
 ## Statutory Law Library, Research & Role Desks — v5.7.0
 
